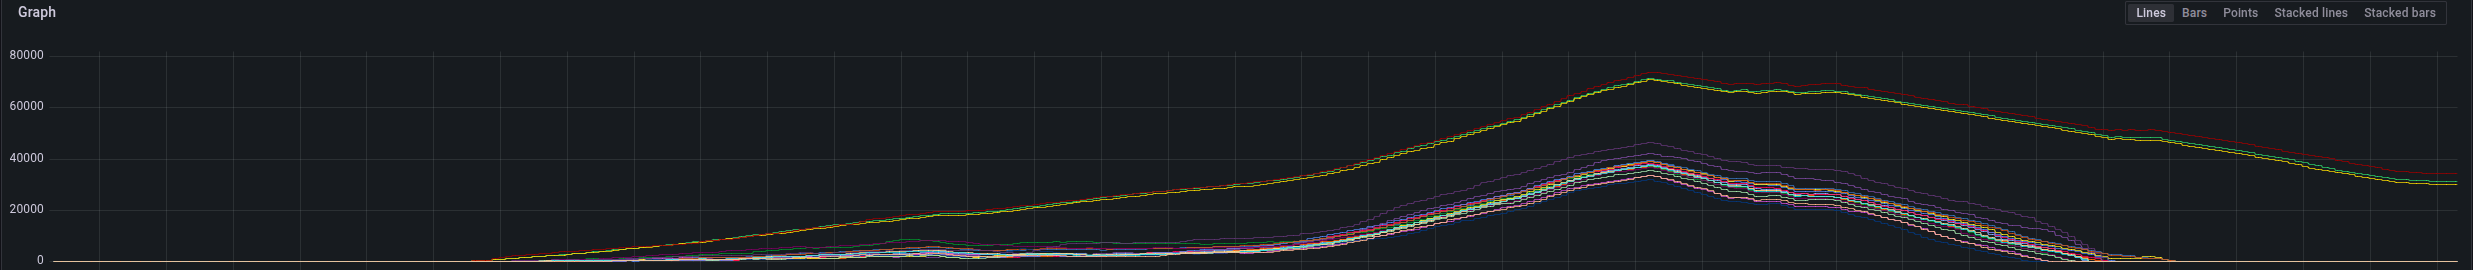
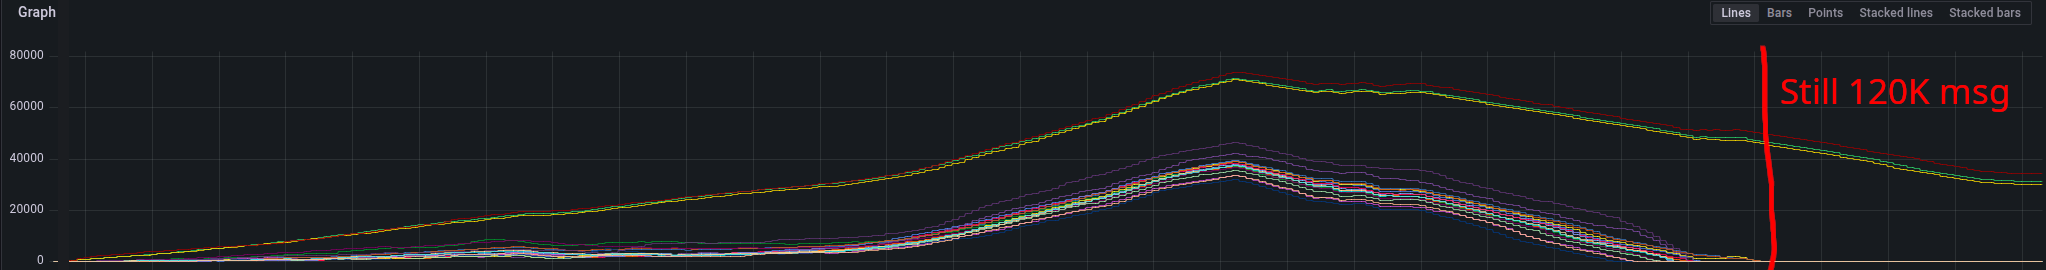
.

diff --git a/presentations/03-single-endpoint/slides/index.html b/presentations/03-single-endpoint/slides/index.html
@@ -630,7 +630,7 @@ resources:
             </ul>
         </section>
         <section>
-            <h1>Know you data!</h1>
+            <h1>Know your data!</h1>
             <p>
                 Setting <strong>journal=false</strong> is not recommended for critical data. However, in our use case, we can rebuild the data very quickly.
                 It is not a critical issue if a customer temporarily sees recommendations in a different order.
@@ -638,6 +638,13 @@ resources:
             <p>
                 Setting <strong>ordered=false</strong> means that queries in a batch are executed in a random order. This can lead to unpredictable results.
                 In our case, messages in the queue never refer to the same records. This way, we don’t have any problems with data being overwritten in the wrong order.
+            </p>
+        </section>
+        <section>
+            <h1>Know your data!</h1>
+            <p>
+                Setting <strong>w=1</strong> is not recommended if you can't afford replication lag.
+                In our case, the fact that the data on the secondary would appear in a few seconds didn't matter.
             </p>
         </section>
         <section>
@@ -650,7 +657,7 @@ resources:
                 <li class="fragment">We decided to use KEDA - Kubernetes Event-driven Autoscaler.</li>
                 <li class="fragment">Meets all our requirements</li>
                 <li class="fragment">Easy to set up</li>
-                <li class="fragment">It also support Kafka</li>
+                <li class="fragment">It also supports Kafka</li>
             </ul>
         </section>
         <section>
@@ -662,7 +669,7 @@ resources:
                 <li>Kafka configuration</li>
                 <li class="fragment">Product queue - 32 partition, 3 replicas</li>
                 <li class="fragment">About 19 hours of data</li>
-                <li class="fragment">Managed by other team</li>
+                <li class="fragment">Managed by another team</li>
             </ul>
         </section>
         <section>
@@ -688,6 +695,66 @@ resources:
       "sizeId": 1041,</code></pre>
             <p class="fragment">For two weeks, we did not update most products.</p>
         </section>
+        <section>
+            <h1>bitter taste of kafka</h1>
+            <ul>
+                <li>We achieved the desired speed with about 20 consumers</li>
+                <li class="fragment">The number of partitions should be divisible by the number of consumers.</li>
+                <li class="fragment">Otherwise, some partitions will be consumed faster than others.</li>
+                <li class="fragment">However, 32 consumers caused database overload.</li>
+                <li class="fragment">16 consumers didn't provide adequate speed.</li>
+                <li class="fragment">KEDA leaves consumers that do nothing.</li>
+            </ul>
+        </section>
+        <section>
+            <h1>bitter taste of kafka</h1>
+            <ul>
+                <li>Incorrectly selected number of consumers.</li>
+                <li class="fragment">Combined with an incorrectly selected partitioning key</li>
+                <li class="fragment">Leads to a situation where, despite a large number of consumers, the processing speed is slow at the end of the queue.</li>
+            </ul>
+        </section>
+        <section>
+            <h1>bitter taste of kafka</h1>
+            <img src="assets/kafka-topics.png" height="450px"/>
+        </section>
+        <section>
+            <h1>bitter taste of kafka</h1>
+            <ul>
+                <li>In this case, most consumers had assigned only 2 partitions</li>
+                <li class="fragment">These consumers finished their job much faster.</li>
+                <li class="fragment">The consumer assigned three partitions struggled with the task.</li>
+                <li class="fragment">Because there were still over 120,000 messages in the queue.</li>
+                <li class="fragment">KEDA maintained the maximum number of consumers.</li>
+                <li class="fragment">Of which, only one was doing job.</li>
+            </ul>
+        </section>
+        <section>
+            <h1>bitter taste of kafka</h1>
+            <img src="assets/one-working.png" height="450px"/>
+        </section>
+        <section>
+            <h1>bitter taste of kafka</h1>
+            <ul>
+                <li>How to deal with such a problem</li>
+                <li class="fragment">Kafka rebalances when a client joins or disconnects.</li>
+                <li class="fragment">You can restart the client every few minutes or every few messages.</li>
+                <li class="fragment">However, frequent restarts can cause Kubernetes to add a back-off period.</li>
+                <li class="fragment">However, frequent restarts can cause Kubernetes to add a back-off period.</li>
+                <li class="fragment">Fortunately, KEDA has built-in options for monitoring the number of active partitions.</li>
+            </ul>
+        </section>
+        <section>
+            <h1>bitter taste of kafka</h1>
+            <pre><code>triggers:
+    - type: kafka
+      metadata:
+        bootstrapServers: 'kafka'
+        consumerGroup: 'recsio'
+        topic: 'products'
+        # number of replicas will not exceed zero-lag partitions
+        limitToPartitionsWithLag: 'true'</code></pre>
+        </section>
         <section data-auto-animate data-auto-animate-id="cache">
             <h1 class="r-fit-text">Cache</h1>
         </section>
@@ -708,17 +775,107 @@ resources:
         </section>
         <section>
             <h2>Wrong way to make cache</h2>
+            <p>In the initial phase of our application, we had two problematic queries that took 90% of the time of all queries</p>
             <uL>
-                <li>Master-slave replication</li>
-                <li class="fragment">Automatic read-write separation</li>
-                <li class="fragment">Must work with symfony cache</li>
-                <li class="fragment">phpRedis is superfast...</li>
-                <li class="fragment">but only support read-write separation for cluster</li>
-                <li class="fragment">So we chose Predis because we use the cache extensively...</li>
-                <li class="fragment">but in a clever way, so a Redis cluster is overkill.</li>
+                <li class="fragment">The first was a query of the type <pre style="display: inline">IN(id1, ... id200)</pre></li>
+                <li class="fragment">The second involved selecting approximately 1,500 products based on a complex filter.</li>
+                <li class="fragment">Each of these queries took 10-30 milliseconds.</li>
+                <li class="fragment">We could cache results for about 5 minutes.</li>
+                <li class="fragment">But this solution wasn't optimal.</li>
             </uL>
         </section>
-
+        <section>
+            <h2>Wrong way to make cache</h2>
+            <ul>
+                <li>Store offers approximately 4.5 million products.</li>
+                <li class="fragment">The cache size exploded, and there were large number of evictions.</li>
+                <li class="fragment">The hit/miss ratio was terrible.</li>
+                <li class="fragment">For popular products, the speedup was indeed noticeable.</li>
+                <li class="fragment">However, for most products, implementing the cache caused a slowdown.</li>
+                <li class="fragment">Cache miss -> database query -> cache store</li>
+            </ul>
+        </section>
+        <section>
+            <h1>Know your data!</h1>
+            <p>After analyzing the data, it turned out that instead of maintaining a cache for individual products, we could recalculate the necessary data for entire product groups.
+                This gave us some hope; the only thing left to do was to see if we could perform these recalculations quickly enough.</p>
+        </section>
+        <section>
+            <h2>Cache done right</h2>
+            <ul>
+                <li>For each store we keep about 80 keys</li>
+                <li class="fragment">For brand its about 2000 keys</li>
+                <li class="fragment">The entire cache takes 25MB RAM / 12,5kb perk key</li>
+                <li class="fragment">It takes 13 seconds to generate cache</li>
+                <li class="fragment">We fetch two keys per request</li>
+                <li class="fragment">Depending on the product, the cache is an array containing approximately 100 - 10,000 entries</li>
+                <li class="fragment">To reduce decoding time and data volume, we used igbinary</li>
+                <li class="fragment">This decision caused problems...</li>
+            </ul>
+        </section>
+        <section>
+            <h2>Cache done right</h2>
+            <ul>
+                <li>Despite 100% coverage of the problematic queries, they still sometimes executed.</li>
+                <li class="fragment">It turned out that the cache was not generated for larger tables.</li>
+                <li class="fragment">Symfony cache does not throw exceptions if the cache fails to be written.</li>
+                <li class="fragment">After a little investigation, it turned out that we can't save arrays larger than 3338 entries.</li>
+                <li class="fragment">Later, it turned out that larger arrays can be saved.</li>
+                <li class="fragment">An array can't be saved if it has a key of 3338</li>
+            </ul>
+        </section>
+        <section>
+            <h2>The Hidden Magic of Number 3338</h2>
+            <ul>
+                <li>Why array key 3338 is problematic</li>
+                <li class="fragment">3338 in hex is <pre style="display: inline; font-size: 1em">0D 0A</pre></li>
+                <li class="fragment"><pre style="display: inline; font-size: 1em">0D => 015</pre> in ASCII is Carriage Return (\r)</li>
+                <li class="fragment"><pre style="display: inline; font-size: 1em">0A => 012</pre> in ASCII is Line Feed (\n)</li>
+                <li class="fragment">predis use <pre style="display: inline; font-size: 1em">\r\n</pre> as command separator in pipeline</li>
+                <li class="fragment">Reported: <a href="https://github.com/predis/predis/issues/1574">https://github.com/predis/predis/issues/1574</a></li>
+                <li class="fragment">Fixed not released yet.</li>
+            </ul>
+        </section>
+        <section>
+            <h2>Cache done right<span class="fragment"> - but we can do better</span></h2>
+            <ul>
+                <li class="fragment">We can do it better because the cache size is only 25MB</li>
+                <li class="fragment">So the entire cache will easily fit in the APC</li>
+                <li class="fragment">The only problem is that we cannot save the cache to APC within the cron command.</li>
+                <li class="fragment">We can use Symfony Chain Cache Adapter for this</li>
+                <li class="fragment">And use redis only to distribute keys to application pods</li>
+                <li class="fragment">This solution worked incredibly well</li>
+                <li class="fragment">Even a little too well...</li>
+            </ul>
+        </section>
+        <section>
+            <h2>When hallucinations hit production</h2>
+            <p>Do you see an error in this configuration? This configuration compiles but doesn't work correctly? </p>
+            <pre><code>pools:
+    recommendation.cache:
+        adapters:
+            - {name: cache.adapter.apcu, default_lifetime: 60}
+            - {name: cache.adapter.redis, default_lifetime: 300}</code>
+            </pre>
+            <span class="fragment">Valid one:
+            <pre><code>pools:
+    recommendation.cache:
+        adapters:
+            - {name: cache.adapter.apcu}
+            - {name: cache.adapter.redis}
+        default_lifetime: 60</code>
+            </pre></span>
+        </section>
+        <section>
+            <h2>Cache done better</h2>
+            <ul>
+                <li>This bug remained in production unnoticed for almost two weeks.</li>
+                <li class="fragment">Causing a gradual degradation of recommendation scores.</li>
+                <li class="fragment">Lesson learned: never trust AI.</li>
+                <li class="fragment">Currently, after fixing the bug, Redis has minimal traffic.</li>
+                <li class="fragment">We may completely stop using Redis for caching.</li>
+            </ul>
+        </section>
     </div>
 </div>
 <script src="/dist/reveal.js"></script>
